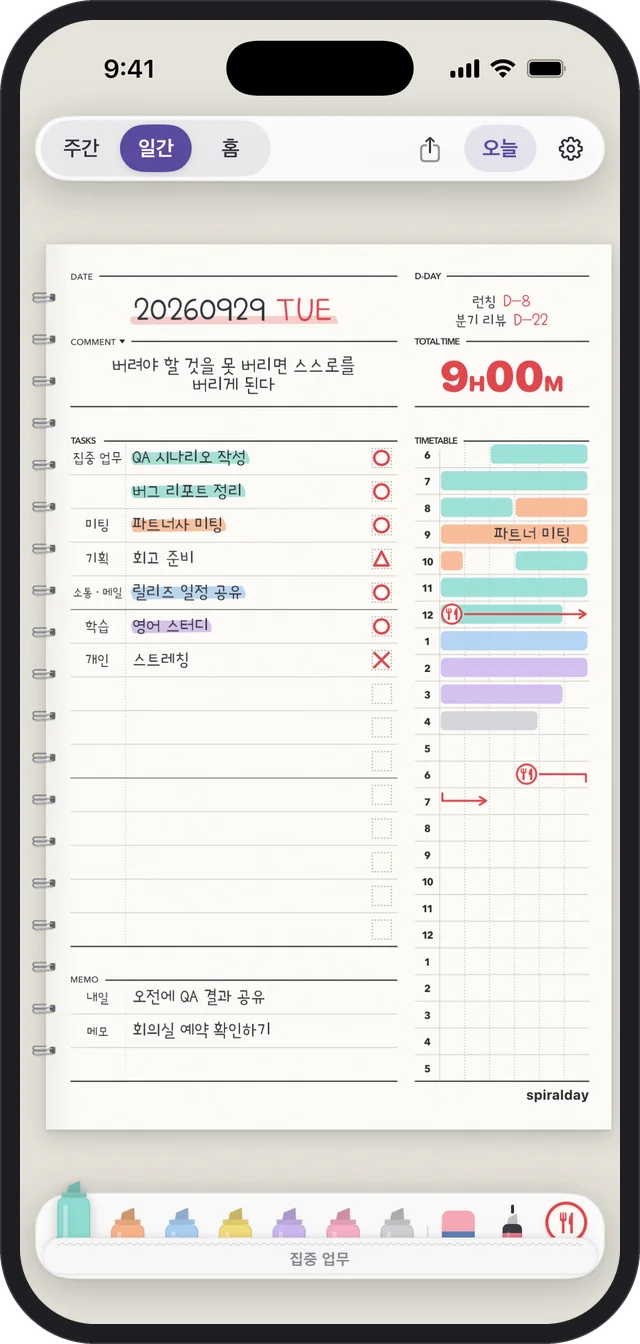
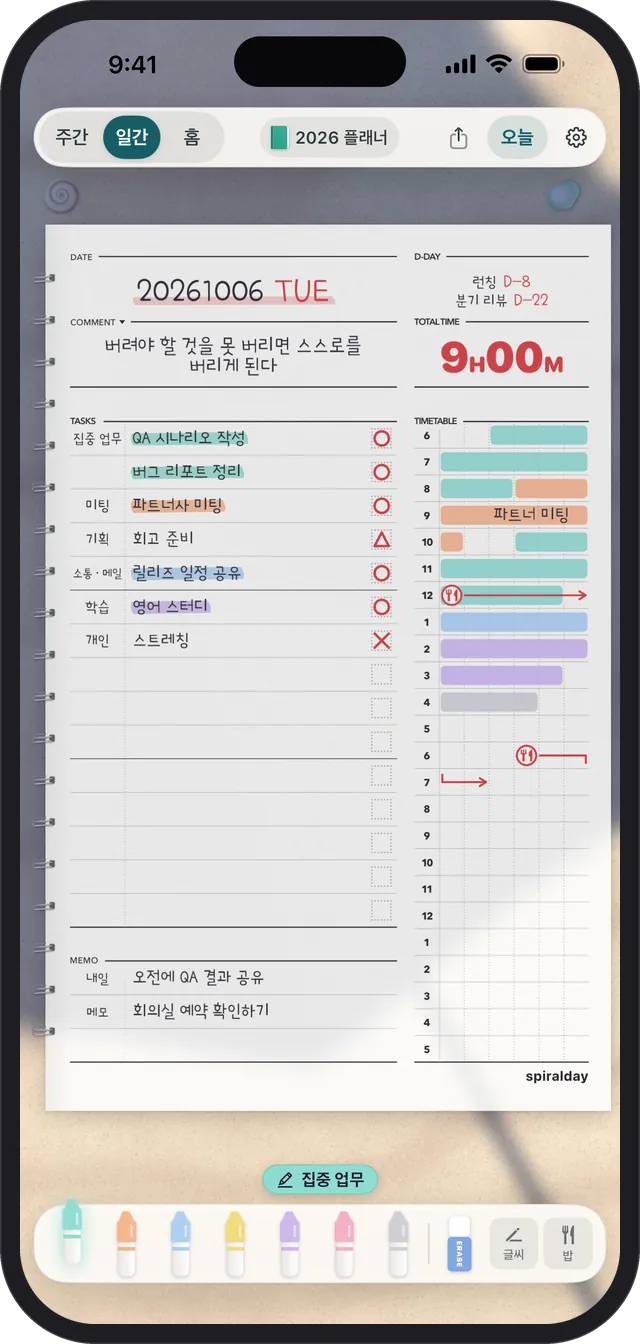
사이트: iPhone · iPad 그림을 최신 빌드로, 책상(바닷가 · 학교 책상) 소개, 새 og.jpg
- 최신 iOS 빌드(spiralday-apps-sync origin/sync 82267d4 + Kit eeb3f46)의 데모 캡처로 다시 뽑음.
  상태 표시줄 9:41 · 배터리 가득 · 통신사 없음, iPhone 17 Pro Max · iPad Pro 13" (iOS 26)
- 대문: 폰은 바닷가 낮 일간, 터치 태블릿은 학교 책상 낮 세로 일간 (테두리 구운 그림, 크기 그대로)
- 미리 보기: iPad 펼친 책은 바닷가 낮 (10/5 · 10/6). iPhone 은 '필통에서 형광펜 고르기' · '쓰기 칸으로 확대'.
  WRITE · TIME 글을 앱의 '쓰기' · '시간' 으로. iphone-daily.webp 는 지움
- 새 #desk: 바닷가 낮 · 학교 책상 낮 · 학교 책상 저녁(스탠드) 세 대 + 나머지 여섯 책상은 앱 설정 › 책상의
  미리 보기 그림. 폰에서는 바닷가를 크게 한 대, 그 아래 둘. iPhone · iPad 카드에 '책상 8가지' 한 줄
- 위젯: 지금의 타임테이블 위젯 (위젯 하네스 그림). 문구에 할 일 · 큰 위젯 · 잠금 화면
- 동기화 그림: Android 화면 대신 지금의 iPhone 동기화 화면 (가짜 기기 목록). sync-preview.webp 파일은 남겨 둠
- Android 그림(android-*.webp · widget-android.webp)은 손대지 않음 — Android 는 다시 만드는 중
- og.jpg: MacBook(주간) + iPad(바닷가) + iPhone 두 대(학교 책상 낮 · 저녁), '지금 무료 / 곧 나와요' 글 그대로.
  og:image ?v=20261005, 대체 글 갱신
- 가벼움: 새 폰 그림은 260w · 520w, 책상 미리 보기는 1x · 2x. Mac 그림(홈 · 주간 · PDF · 책장)에 1x · 2x 크기를 더하고,
  태블릿에서 한 단이 된 기능 그림은 가운데 540px 까지만. 끝까지 내렸을 때 받는 양이 지금보다 같거나 적음
  (1440@2 1260→1258KB, 1280@1 1235→941KB, 390@3 1127→1071KB, iPad 820@2 1227→1227KB)

html-validate 통과, axe 위반 0, 320 · 360 · 390 · 768 · 820 · 1024 · 1280 · 1440 가로 넘침 0,
CLS 최대 0.02 (4배 CPU · 1.6Mbps), 깨진 그림 0, 출시 상태 바꿔 보기(iOS · Android · 모두 나옴) 정상.

diff --git a/site/index.html b/site/index.html
@@ -17,16 +17,16 @@
 <meta property="og:url" content="https://spiralday.com/">
 <meta property="og:title" content="Spiralday — 화면 하나가 종이 한 장인 10분 플래너">
 <meta property="og:description" content="10분 단위로 하루를 칠하고, 진짜 종이처럼 넘기는 플래너. Mac · Windows(베타) 는 지금 무료, iPhone · iPad · Android 는 곧 나와요.">
-<meta property="og:image" content="https://spiralday.com/assets/og.jpg?v=20261004">
+<meta property="og:image" content="https://spiralday.com/assets/og.jpg?v=20261005">
 <meta property="og:image:type" content="image/jpeg">
 <meta property="og:image:width" content="1200">
 <meta property="og:image:height" content="630">
-<meta property="og:image:alt" content="Spiralday 주간 · 일간 페이지가 Mac, iPad, iPhone, Android 폰에 함께 떠 있는 모습">
+<meta property="og:image:alt" content="Spiralday 주간 · 일간 페이지가 Mac, iPad, iPhone 에 함께 떠 있는 모습. iPad 는 바닷가 책상, iPhone 두 대는 학교 책상의 낮과 저녁">
 <meta name="twitter:card" content="summary_large_image">
 <meta name="twitter:title" content="Spiralday — 화면 하나가 종이 한 장인 10분 플래너">
 <meta name="twitter:description" content="10분 단위로 하루를 칠하고, 진짜 종이처럼 넘기는 플래너. Mac · Windows(베타) 는 지금 무료, iPhone · iPad · Android 는 곧 나와요.">
-<meta name="twitter:image" content="https://spiralday.com/assets/og.jpg?v=20261004">
-<meta name="twitter:image:alt" content="Spiralday 주간 · 일간 페이지가 Mac, iPad, iPhone, Android 폰에 함께 떠 있는 모습">
+<meta name="twitter:image" content="https://spiralday.com/assets/og.jpg?v=20261005">
+<meta name="twitter:image:alt" content="Spiralday 주간 · 일간 페이지가 Mac, iPad, iPhone 에 함께 떠 있는 모습. iPad 는 바닷가 책상, iPhone 두 대는 학교 책상의 낮과 저녁">
 <!-- 검색 엔진용 앱 정보. 스토어에 나오면 operatingSystem · downloadUrl 을 함께 늘려 주세요 (아래 스크립트 맨 위의 출시 체크리스트) -->
 <script type="application/ld+json">
 {
@@ -382,6 +382,16 @@
   .widget-stack img { width: 100%; filter: drop-shadow(0 18px 24px rgba(40,30,20,.2)); }
   .widgets h3 { font-size: clamp(28px, 3.4vw, 40px); line-height: 1.2; font-weight: 400; color: var(--ink); margin: 0 0 14px; }
 
+  /* 책상 — 앞의 셋은 실제 화면, 뒤의 여섯은 앱 설정 › 책상의 미리 보기 그림 */
+  .desks { display: grid; grid-template-columns: repeat(3, minmax(0, 1fr)); gap: 28px; align-items: end; max-width: 840px; margin: 8px auto 0; }
+  .desk-more { margin: 64px auto 0; max-width: 1000px; }
+  .desk-more h3 { margin: 0 0 22px; text-align: center; font-size: clamp(24px, 2.8vw, 30px); line-height: 1.3; font-weight: 400; color: var(--ink); }
+  .desk-list { list-style: none; margin: 0; padding: 0; display: grid; grid-template-columns: repeat(6, minmax(0, 1fr)); gap: 22px 14px; }
+  .desk-list li { text-align: center; font-size: 15px; line-height: 1.4; color: var(--soft); }
+  .desk-list img { width: 100%; margin: 0 0 10px; border-radius: 12px; background: var(--paper-2); box-shadow: 0 14px 24px -18px rgba(40,30,20,.55), 0 0 0 1px rgba(0,0,0,.06); }
+  .desk-list b { display: block; font-size: 18px; color: var(--ink); }
+  .desk-note { margin: 26px auto 0; max-width: 660px; text-align: center; font-size: 17px; color: var(--soft); }
+
   /* 동기화 */
   .sync { background: #fff; border: 1px solid rgba(0,0,0,.07); border-radius: 28px; padding: 50px 48px; display: grid; grid-template-columns: minmax(0, 1.25fr) minmax(0, .75fr); gap: 44px; align-items: center; box-shadow: 0 14px 40px -30px rgba(0,0,0,.45); }
   .sync .intro { margin: 0 0 18px; font-size: 20px; display: flex; flex-wrap: wrap; align-items: center; gap: 8px 12px; }
@@ -479,9 +489,10 @@
     .hero-shot { padding-top: 24px; }
     .hero-shot .tag { left: -6px; font-size: 20px; }
   }
-  /* 위젯 두 개는 가로로 */
+  /* 위젯 두 개는 가로로. 한 단이 된 기능 그림은 가운데 540px 까지만 (태블릿에서 2배 그림이 1600px 까지 커지지 않게) */
   @media (min-width: 600px) and (max-width: 900px) {
     .widget-stack { grid-template-columns: repeat(2, minmax(0, 1fr)); align-items: end; }
+    .split > .shot { width: 100%; max-width: 540px; justify-self: center; }
   }
   @media (max-width: 767px) {
     .hero { grid-template-columns: minmax(0, 1fr); grid-template-areas: "text" "shot" "act"; grid-template-rows: auto; padding-top: 24px; }
@@ -494,6 +505,7 @@
     .plats, .installs { grid-template-columns: minmax(0, 1fr); }
     .phones { grid-template-columns: repeat(2, minmax(0, 1fr)); gap: 28px 16px; margin-top: 40px; }
     .phones .opt { display: none; }
+    .desk-list { grid-template-columns: repeat(3, minmax(0, 1fr)); }
   }
   /* 좁은 머리: 문의 · Threads 만 (문의는 언제나 보이게) */
   @media (max-width: 700px) {
@@ -523,6 +535,16 @@
     section p.desc { font-size: 20px; }
     .soon-note { padding: 18px 16px 16px; }
     .soon-note .soon-title { font-size: 22px; }
+    /* 책상: 바닷가를 크게 한 대, 학교 책상 낮 · 저녁은 그 아래 나란히 */
+    .desks { grid-template-columns: repeat(2, minmax(0, 1fr)); gap: 28px 16px; }
+    .desks .lead { grid-column: 1 / -1; justify-self: center; width: min(100%, 250px); }
+    .desk-more { margin-top: 48px; }
+  }
+  @media (max-width: 420px) {
+    .desk-list { gap: 18px 10px; }
+    .desk-list li { font-size: 14px; }
+    .desk-list b { font-size: 16px; }
+    .desk-list img { border-radius: 10px; }
   }
   @media (max-width: 339px) {
     header nav a.threads span { display: none; }
@@ -660,7 +682,8 @@
         <ul class="spec">
           <li>iPad 는 [어제 | 오늘] 이 펼쳐진 책상</li>
           <li>Apple Pencil — 손바닥이 닿아도 괜찮고, 스크리블로 손글씨를 글자로 바꿔요</li>
-          <li>iPhone 은 WRITE · TIME 칸으로 카메라처럼 다가가서 쓰고 칠해요</li>
+          <li>iPhone 은 ‘쓰기’ · ‘시간’ 칸으로 카메라처럼 다가가서 쓰고 칠해요</li>
+          <li>종이 밑에 깔 <a href="#desk">책상 8가지</a> — 바닷가, 학교 책상… 저녁엔 조명이 켜져요</li>
           <li>홈 화면 · 잠금 화면 위젯</li>
         </ul>
         <div class="act">
@@ -748,7 +771,7 @@
     <p class="label">Weekly</p>
     <h2 id="weekly-h">한 주는 <span class="hl" style="--c: #CDB6EF">가로로 한 장</span>.</h2>
     <p class="desc">MY GOAL 과 주간 회고, 월–일 7칸에 할 일 10줄과 타임테이블. 주간으로 바꾸면 종이가 가로로 놓이고, 스프링은 위로 올라가요.</p>
-    <div class="shot bare wide"><img src="assets/weekly.webp" alt="주간 페이지" width="1600" height="999" loading="lazy" decoding="async"></div>
+    <div class="shot bare wide"><img src="assets/weekly.webp" srcset="assets/weekly-1100.webp 1100w, assets/weekly.webp 1600w" sizes="(max-width: 1120px) calc(100vw - 32px), 1072px" alt="주간 페이지" width="1600" height="999" loading="lazy" decoding="async"></div>
   </section>
 
   <!-- 홈 -->
@@ -759,7 +782,7 @@
         <h2 id="home-h">쌓인 하루들을 <span class="hl" style="--c: #F8B38A">한눈에</span>.</h2>
         <p class="desc">이번 주·이번 달 시간, 하루 평균, 연속 기록, 할 일 완료율, 최근 12주, 형광펜별 시간, 가장 자주 칠한 시간대와 요일, 최근 35일 달력까지. 날짜를 누르면 그날로 바로 가요.</p>
       </div>
-      <div class="shot bare"><img src="assets/home.webp" alt="홈 통계 페이지" width="1600" height="999" loading="lazy" decoding="async"></div>
+      <div class="shot bare"><img src="assets/home.webp" srcset="assets/home-560.webp 560w, assets/home-1100.webp 1100w, assets/home.webp 1600w" sizes="(max-width: 600px) calc(100vw - 32px), (max-width: 900px) 540px, 508px" alt="홈 통계 페이지" width="1600" height="999" loading="lazy" decoding="async"></div>
     </div>
   </section>
 
@@ -771,7 +794,7 @@
         <h2 id="books-h">플래너는 <span class="hl">책처럼</span>, 여러 권.</h2>
         <p class="desc">권마다 이름, 시작일, 종료일, 표지 색을 정해요. 시작일보다 앞으로는 넘어가지 않고, 종료일을 정하면 그날에서 멈춰요. 업무용 한 권, 공부용 한 권 — 기록과 형광펜이 권마다 따로 저장돼요.</p>
       </div>
-      <div class="shot"><img src="assets/settings-books.webp" alt="설정의 플래너 책장" width="1100" height="855" loading="lazy" decoding="async"></div>
+      <div class="shot"><img src="assets/settings-books.webp" srcset="assets/settings-books-560.webp 560w, assets/settings-books.webp 1100w" sizes="(max-width: 600px) calc(100vw - 32px), (max-width: 900px) 540px, 508px" alt="설정의 플래너 책장" width="1100" height="855" loading="lazy" decoding="async"></div>
     </div>
   </section>
 
@@ -784,7 +807,7 @@
         <p class="desc">일간은 A4 가로 한 장에 이틀씩 — 가운데 선을 따라 자르면 손에 드는 종이 플래너 크기예요. A4 세로로 하루 한 장, 주간과 홈은 A4 가로. 기간을 정해 한 번에 뽑고, 벡터라 인쇄가 선명해요.</p>
         <p class="hand" style="font-size:24px;color:var(--soft);margin:0">기록이 없는 날은 빈 양식 — 종이로도 쓸 수 있어요.</p>
       </div>
-      <div class="shot"><img src="assets/pdf-half.webp" alt="A4 가로에 일간 두 장이 나란히 있는 PDF" width="1400" height="989" loading="lazy" decoding="async"></div>
+      <div class="shot"><img src="assets/pdf-half.webp" srcset="assets/pdf-half-560.webp 560w, assets/pdf-half-1100.webp 1100w, assets/pdf-half.webp 1400w" sizes="(max-width: 600px) calc(100vw - 32px), (max-width: 900px) 540px, 508px" alt="A4 가로에 일간 두 장이 나란히 있는 PDF" width="1400" height="989" loading="lazy" decoding="async"></div>
     </div>
   </section>
 
@@ -805,28 +828,28 @@
   <section id="devices" aria-labelledby="devices-h">
     <p class="label keep">iPad · iPhone · Android</p>
     <h2 id="devices-h">iPad 에선 <span class="hl" style="--c: #F3DB78">펼친 노트</span>,<br>폰에선 <span class="hl">손바닥 수첩</span>.</h2>
-    <p class="desc">iPad 는 어제와 오늘이 나란히 펼쳐진 책상이에요. Apple Pencil 로 쓰고, 손바닥이 화면에 닿아도 괜찮아요. 폰에서는 WRITE 칸과 TIME 칸으로 카메라처럼 다가가서 쓰고 칠해요.</p>
+    <p class="desc">iPad 는 어제와 오늘이 나란히 펼쳐진 책상이에요. Apple Pencil 로 쓰고, 손바닥이 화면에 닿아도 괜찮아요. 폰에서는 ‘쓰기’ · ‘시간’ 을 누르면 그 칸으로 카메라처럼 다가가서, 크게 쓰고 칠해요.</p>
     <p class="preview-note" data-show="ios:soon android:soon"><span class="badge is-soon">미리 보기</span> 출시를 준비 중인 앱의 실제 화면이에요.</p>
 
     <figure class="device tablet ipad-wrap">
       <div class="frame">
-        <img src="assets/ipad-spread-1400.webp" srcset="assets/ipad-spread-760.webp 760w, assets/ipad-spread-1400.webp 1400w, assets/ipad-spread-1880.webp 1880w" sizes="(max-width: 990px) calc(100vw - 32px), 940px" width="1400" height="1050" loading="lazy" decoding="async" alt="iPad 가로 화면. 9월 28일과 9월 29일 일간 페이지가 나란히 펼쳐져 있고, 오른쪽에 형광펜과 도구 막대가 있어요">
+        <img src="assets/ipad-spread-1400.webp" srcset="assets/ipad-spread-760.webp 760w, assets/ipad-spread-1400.webp 1400w, assets/ipad-spread-1880.webp 1880w" sizes="(max-width: 990px) calc(100vw - 32px), 940px" width="1400" height="1050" loading="lazy" decoding="async" alt="iPad 가로 화면. 바닷가 책상 위에 10월 5일과 10월 6일 일간 페이지가 나란히 펼쳐져 있고, 파라솔 그늘이 비스듬히 드리워 있어요. 오른쪽에는 형광펜과 도구 막대">
       </div>
       <figcaption><b>iPad</b>[어제 | 오늘] 펼침면 · Apple Pencil</figcaption>
     </figure>
 
     <div class="phones">
       <figure class="device iphone opt">
-        <div class="frame"><img src="assets/iphone-daily.webp" width="520" height="1131" loading="lazy" decoding="async" alt="iPhone 에서 본 일간 페이지 한 장 전체. 위에 주간 · 일간 · 홈 전환, 아래에 형광펜 막대"></div>
-        <figcaption><b>iPhone</b>한 장 전체</figcaption>
+        <div class="frame"><img src="assets/iphone-pens.webp" srcset="assets/iphone-pens-260.webp 260w, assets/iphone-pens.webp 520w" sizes="(max-width: 1120px) 22vw, 232px" width="520" height="1130" loading="lazy" decoding="async" alt="iPhone 에서 시간 칸으로 다가간 화면. 아래 필통에서 미팅 형광펜을 꺼내 들었고, ‘미팅’ 이름표가 떠 있어요"></div>
+        <figcaption><b>iPhone</b>필통에서 형광펜 고르기</figcaption>
       </figure>
       <figure class="device iphone">
-        <div class="frame"><img src="assets/iphone-write.webp" width="520" height="1131" loading="lazy" decoding="async" alt="iPhone 에서 WRITE 칸으로 확대한 화면. 할 일 글씨가 크게 보여요"></div>
-        <figcaption><b>iPhone</b>WRITE 칸으로 확대</figcaption>
+        <div class="frame"><img src="assets/iphone-write.webp" srcset="assets/iphone-write-260.webp 260w, assets/iphone-write.webp 520w" sizes="(max-width: 760px) 45vw, (max-width: 1120px) 22vw, 232px" width="520" height="1130" loading="lazy" decoding="async" alt="iPhone 에서 쓰기 칸으로 확대한 화면. 학교 책상 위에서 할 일 글씨가 크게 보여요"></div>
+        <figcaption><b>iPhone</b>쓰기 칸으로 확대</figcaption>
       </figure>
       <figure class="device android">
-        <div class="frame"><img src="assets/android-paint.webp" width="520" height="924" loading="lazy" decoding="async" alt="Android 폰에서 TIME 칸으로 확대해 형광펜을 칠하는 화면. 22:00 부터 22:50 까지 50분이라고 떠 있어요"></div>
-        <figcaption><b>Android</b>TIME 칸에 칠하기</figcaption>
+        <div class="frame"><img src="assets/android-paint.webp" width="520" height="924" loading="lazy" decoding="async" alt="Android 폰에서 시간 칸으로 확대해 형광펜을 칠하는 화면. 22:00 부터 22:50 까지 50분이라고 떠 있어요"></div>
+        <figcaption><b>Android</b>시간 칸에 칠하기</figcaption>
       </figure>
       <figure class="device android opt">
         <div class="frame"><img src="assets/android-daily.webp" width="520" height="924" loading="lazy" decoding="async" alt="Android 폰에서 본 일간 페이지 한 장 전체"></div>
@@ -837,18 +860,52 @@
     <div class="split widgets">
       <div>
         <h3>위젯으로 오늘을 <span class="hl" style="--c: #CDB6EF">한눈에</span>.</h3>
-        <p class="desc">앱을 열지 않아도 오늘 칠한 시간과 D-day, 미니 타임테이블이 홈 화면에 보여요. iPhone 은 잠금 화면에도, Android 는 2×2 · 4×2 두 가지 크기로 놓을 수 있어요.</p>
+        <p class="desc">앱을 열지 않아도 오늘 칠한 시간과 D-day, 타임테이블, 할 일이 홈 화면에 보여요. iPhone · iPad 는 오늘 한 장을 통째로 띄우는 큰 위젯과 잠금 화면 위젯도 있고, Android 는 2×2 · 4×2 두 가지 크기로 놓을 수 있어요.</p>
       </div>
       <div class="widget-stack">
         <figure>
-          <img src="assets/widget-ios.webp" width="728" height="340" loading="lazy" decoding="async" alt="iPhone 중간 크기 위젯. 기획안 마감 D-4, TOTAL TIME 7시간 30분, 오전 · 오후 타임테이블">
-          <figcaption><b>iPhone · iPad</b>홈 화면 위젯</figcaption>
+          <img src="assets/widget-ios.webp" srcset="assets/widget-ios-380.webp 380w, assets/widget-ios.webp 760w" sizes="(max-width: 420px) calc(100vw - 32px), 380px" width="760" height="355" loading="lazy" decoding="async" alt="iPhone 중간 크기 타임테이블 위젯. 10월 6일 화요일 8시간, 아침 6시부터 다음 날 새벽 5시까지 형광펜으로 칠한 칸">
+          <figcaption><b>iPhone · iPad</b>타임테이블 위젯</figcaption>
         </figure>
         <figure>
           <img src="assets/widget-android.webp" width="800" height="399" loading="lazy" decoding="async" alt="Android 4×2 위젯. 10월 4일 일요일, 런칭 D-3, TOTAL TIME 3시간 50분, 미니 타임테이블과 할 일 1/2">
           <figcaption><b>Android</b>4×2 미니 타임테이블</figcaption>
         </figure>
       </div>
+    </div>
+  </section>
+
+  <!-- 책상 (iPhone · iPad) -->
+  <section id="desk" aria-labelledby="desk-h">
+    <p class="label">Desk</p>
+    <h2 id="desk-h">종이 밑에 깔 <span class="hl" style="--c: #F8B38A">책상</span>도 골라요.</h2>
+    <p class="desc">바닷가의 파라솔 그늘, 블라인드 사이로 드는 교실 햇살. 종이는 그대로 두고 그 밑의 책상과 빛만 바뀌어요. 해 질 무렵이면 스탠드나 랜턴 같은 저녁 조명으로 천천히 넘어가고, 도구 막대도 그 빛을 따라가요.</p>
+    <p class="preview-note"><span class="badge is-soon" data-show="ios:soon">미리 보기</span> <span>iPhone · iPad 앱의 설정 › 이 기기 › 책상에서 골라요.</span></p>
+    <div class="desks">
+      <figure class="device iphone lead">
+        <div class="frame"><img src="assets/desk-beach-day.webp" srcset="assets/desk-beach-day-260.webp 260w, assets/desk-beach-day.webp 520w" sizes="(max-width: 600px) 46vw, (max-width: 900px) 30vw, 246px" width="520" height="1130" loading="lazy" decoding="async" alt="iPhone 일간 페이지를 바닷가 책상에 놓은 화면. 고운 모래 위로 파라솔 그늘이 비스듬히 드리워 있어요"></div>
+        <figcaption><b>바닷가 · 낮</b>파라솔 그늘이 비스듬히</figcaption>
+      </figure>
+      <figure class="device iphone">
+        <div class="frame"><img src="assets/desk-school-day.webp" srcset="assets/desk-school-day-260.webp 260w, assets/desk-school-day.webp 520w" sizes="(max-width: 600px) 46vw, (max-width: 900px) 30vw, 246px" width="520" height="1130" loading="lazy" decoding="async" alt="학교 책상에 놓은 일간 페이지. 블라인드 사이로 든 햇살이 종이 위에 줄무늬로 비쳐요"></div>
+        <figcaption><b>학교 책상 · 낮</b>블라인드 사이로 드는 햇살</figcaption>
+      </figure>
+      <figure class="device iphone">
+        <div class="frame"><img src="assets/desk-school-evening.webp" srcset="assets/desk-school-evening-260.webp 260w, assets/desk-school-evening.webp 520w" sizes="(max-width: 600px) 46vw, (max-width: 900px) 30vw, 246px" width="520" height="1130" loading="lazy" decoding="async" alt="저녁의 학교 책상. 어두워진 교실에서 책상 스탠드 불빛이 종이를 비춰요"></div>
+        <figcaption><b>학교 책상 · 저녁</b>다들 돌아간 교실, 스탠드 하나</figcaption>
+      </figure>
+    </div>
+    <div class="desk-more">
+      <h3>책상은 여섯 가지 더 있어요</h3>
+      <ul class="desk-list">
+        <li><img src="assets/desk-default.webp" srcset="assets/desk-default-168.webp 1x, assets/desk-default.webp 2x" width="168" height="224" loading="lazy" decoding="async" alt=""><b>기본</b>따뜻한 회색<br>원래 책상 그대로</li>
+        <li><img src="assets/desk-white.webp" srcset="assets/desk-white-168.webp 1x, assets/desk-white.webp 2x" width="168" height="224" loading="lazy" decoding="async" alt=""><b>흰 책상</b>잎 그림자<br>저녁엔 탁상 램프</li>
+        <li><img src="assets/desk-cafe.webp" srcset="assets/desk-cafe-168.webp 1x, assets/desk-cafe.webp 2x" width="168" height="224" loading="lazy" decoding="async" alt=""><b>카페 테이블</b>창가 햇살<br>저녁엔 펜던트 등</li>
+        <li><img src="assets/desk-library.webp" srcset="assets/desk-library-168.webp 1x, assets/desk-library.webp 2x" width="168" height="224" loading="lazy" decoding="async" alt=""><b>도서관</b>높은 창<br>저녁엔 뱅커스 램프</li>
+        <li><img src="assets/desk-linen.webp" srcset="assets/desk-linen-168.webp 1x, assets/desk-linen.webp 2x" width="168" height="224" loading="lazy" decoding="async" alt=""><b>리넨</b>커튼 너머 낮빛<br>저녁엔 촛불</li>
+        <li><img src="assets/desk-night.webp" srcset="assets/desk-night-168.webp 1x, assets/desk-night.webp 2x" width="168" height="224" loading="lazy" decoding="async" alt=""><b>밤 책상</b>해 질 녘 노을<br>밤엔 스탠드</li>
+      </ul>
+      <p class="desk-note">책상은 기기마다 따로 골라요. 같은 플래너라도 iPad 는 바닷가, iPhone 은 학교 책상에 둘 수 있어요. 어두운 모드에서는 늘 저녁 빛이에요.</p>
     </div>
   </section>
 
@@ -866,9 +923,9 @@
           <li><span class="m" aria-hidden="true">○</span><div><b>켤 때만</b> — 처음엔 꺼져 있어요. 켜지 않으면 기록은 내 기기 밖으로 나가지 않아요.</div></li>
         </ul>
       </div>
-      <figure class="device android">
-        <div class="frame"><img src="assets/sync-preview.webp" width="520" height="924" loading="lazy" decoding="async" alt="동기화 설정 화면. 동기화됨, 이 기기는 종단간 암호화, 연결된 기기 2대"></div>
-        <figcaption><span data-show="sync:soon">준비 중인 동기화 화면 (Android)</span><span data-show="sync:out" hidden>동기화 화면 (Android)</span></figcaption>
+      <figure class="device iphone">
+        <div class="frame"><img src="assets/sync-iphone.webp" srcset="assets/sync-iphone-260.webp 260w, assets/sync-iphone.webp 520w" sizes="(max-width: 900px) 226px, 253px" width="520" height="1130" loading="lazy" decoding="async" alt="iPhone 의 동기화 설정 화면. 동기화됨, 이 기기는 종단간 암호화, 연결된 기기 4대 — iPhone, MacBook, 회사 PC, iPad"></div>
+        <figcaption><span data-show="sync:soon">준비 중인 동기화 화면 (iPhone)</span><span data-show="sync:out" hidden>동기화 화면 (iPhone)</span></figcaption>
       </figure>
     </div>
   </section>
